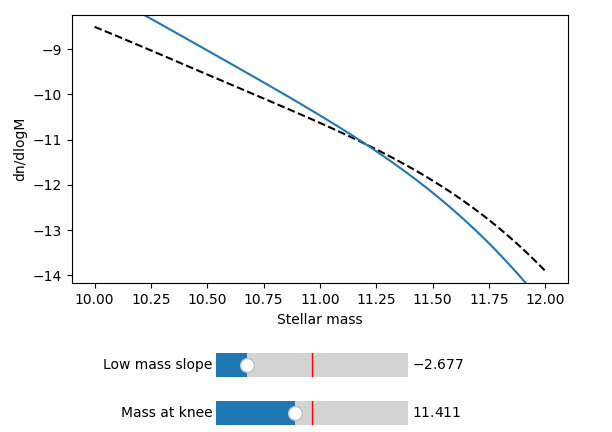
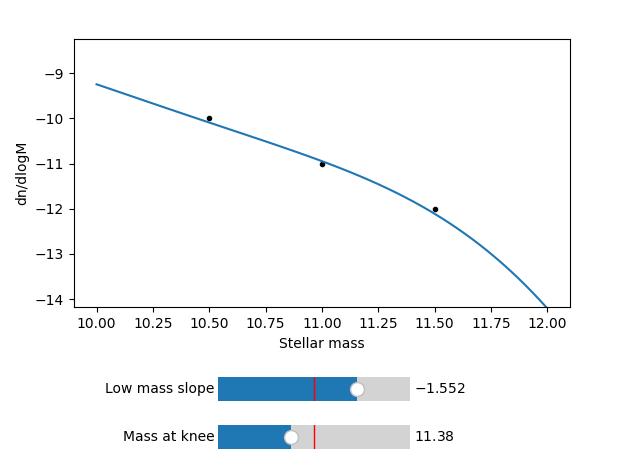
Add initial_params argument

diff --git a/swiftemulator/emulators/base.py b/swiftemulator/emulators/base.py
@@ -127,6 +127,7 @@ class BaseEmulator(object):
     def interactive_plot(
         self,
         x: np.array,
+        initial_params: Dict[str, float] = {},
         xlabel: str = "",
         ylabel: str = "",
         x_data: np.array = None,
@@ -134,15 +135,21 @@ class BaseEmulator(object):
     ):
         """
         Generates an interactive plot which displays the emulator predictions.
-        If no reference data is passed to be overplotted then the plot will
-        display a line which corresponds to the predictions for the mean
-        of the parameter values.
+        If initial_params should contain the initial parameter values to make a
+        prediction for. If initial_params is not passed the midpoint of each of
+        the parameter values will be used instead. If no reference data is
+        passed to be overplotted then the plot will display a line which
+        corresponds to the predictions for the initial parameter values.
 
         Parameters
         ----------
 
         x: np.array
             Array of data for which the emulator should make predictions.
+
+        initial_params: Dict[str, float], optional
+            What parameters values to plot the predicition for initally.
+            If missing the midpoint of each parameter range will be used.
 
         xlabel: str, optional
             Label for horizontal axis on the resultant figure.
@@ -162,7 +169,6 @@ class BaseEmulator(object):
 
         fig, ax = plt.subplots()
         model_specification = self.model_specification
-        param_means = {}
         sliders = []
         n_param = model_specification.number_of_parameters
         fig.subplots_adjust(bottom=0.12 + n_param * 0.1)
@@ -171,23 +177,25 @@ class BaseEmulator(object):
             name = model_specification.parameter_names[i]
             lo_lim = sorted(model_specification.parameter_limits[i])[0]
             hi_lim = sorted(model_specification.parameter_limits[i])[1]
-            param_means[name] = (lo_lim + hi_lim) / 2
+            if not name in initial_params:
+                initial_params[name] = (lo_lim + hi_lim) / 2
 
             # Adding slider
+            printable_name = name
             if model_specification.parameter_printable_names:
-                name = model_specification.parameter_printable_names[i]
+                printable_name = model_specification.parameter_printable_names[i]
             slider_ax = fig.add_axes([0.35, i * 0.1, 0.3, 0.1])
             slider = Slider(
                 ax=slider_ax,
-                label=name,
+                label=printable_name,
                 valmin=lo_lim,
                 valmax=hi_lim,
-                valinit=(lo_lim + hi_lim) / 2,
+                valinit=initial_params[name],
             )
             sliders.append(slider)
 
-        # Setting up initial value
-        pred, pred_var = self.predict_values(x, param_means)
+        # Plotting lines and reference data
+        pred, pred_var = self.predict_values(x, initial_params)
         if (x_data is None) or (y_data is None):
             ax.plot(x, pred, "k--")
         else:

diff --git a/docs/source/emulator_analysis/index.rst b/docs/source/emulator_analysis/index.rst
@@ -160,16 +160,22 @@ Another way to explore the effect of varying the parameters is
 to try an interactive plot. Every emulator object contains an
 `interactive_plot` method. This generates a plot with a slider 
 for each parameter. The plot will update to show the emulator
-predictions when sliders are adjusted. 
+predictions when sliders are adjusted. The emulator will make
+its initial prediction using the parameter values passed to it.
+If no parameters are passed if will default to the midpoint of
+each parameter range. It is also possible to pass reference data
+to overplot on the emulator predictions. If no reference data is
+passed the plot will display a fixed dashed line corresponding to
+the prediction using the initial parameter values.
 
 .. code-block:: python
 
-    schecter_emulator.interactive_plot(predict_x, xlabel="Stellar mass", ylabel="dn/dlogM")
+    schecter_emulator.interactive_plot(predict_x, initial_params=center,
+                                       xlabel="Stellar mass", ylabel="dn/dlogM",
+                                       x_data=[10.5, 11, 11.5],
+                                       y_data=[-10, -11, -12])
 
 .. image:: interactive_plot.png
-
-It is possible to pass reference data to be plotted when calling 
-:meth:`swiftemulator.emulators.base.BaseEmulator.interactive\_plot`.
 
 
 Model Parameters Features
